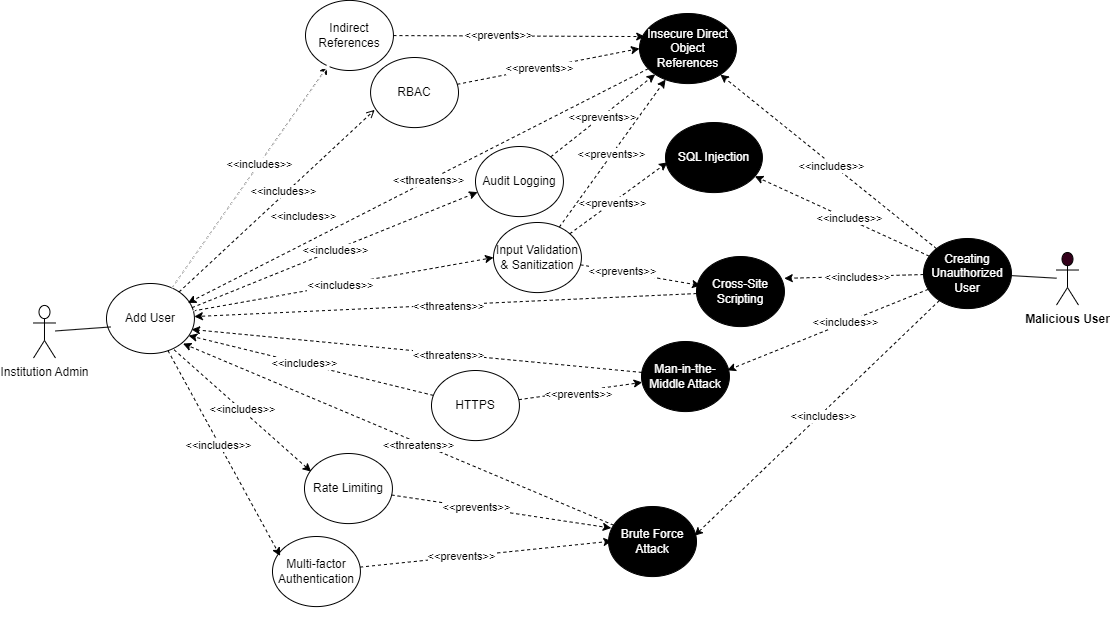
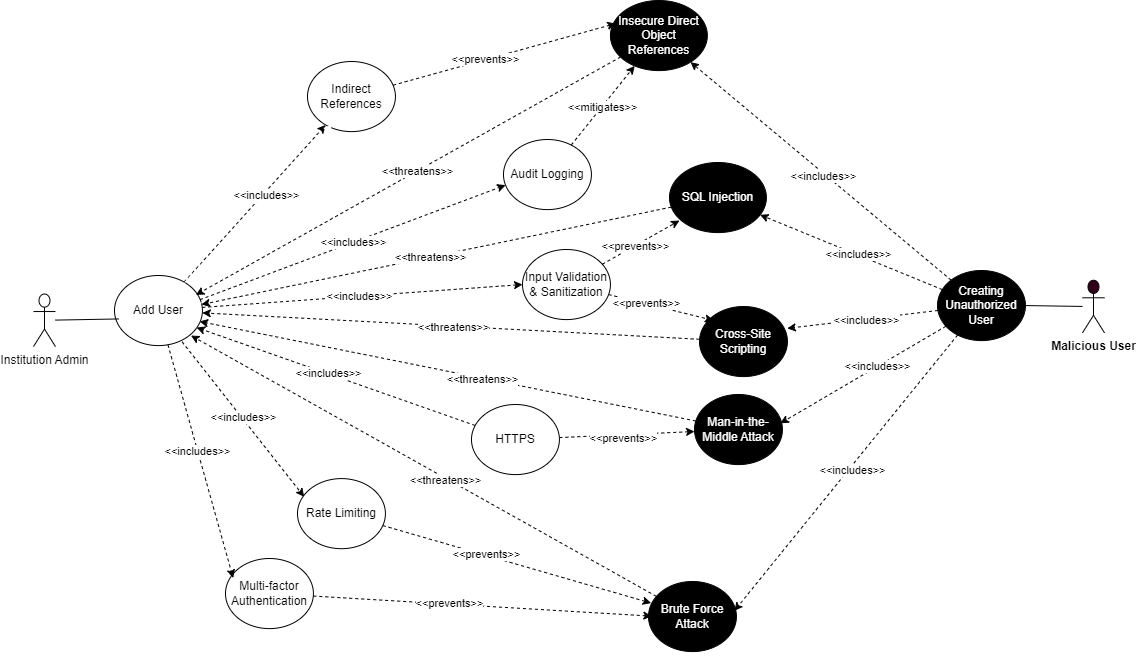
Update diagram from PR comments

diff --git a/Deliverables/Requirements for Software Security Engineering/Security Requirements.md b/Deliverables/Requirements for Software Security Engineering/Security Requirements.md
@@ -52,10 +52,12 @@ Canvas LMS advertises the following security features that mitigate security req
    - Session Timeouts
    - Role-Based Access Control (RBAC)
 
+## Security-related Configuration and Installation Issues
+
 ## Link to Project Board
 [Click here to view the board](https://github.com/users/jschrack/projects/2/views/1)
 
-## Individual Contribution Summaries
+## Individual Contributions
 ### Augusto
 ### Deb
 
